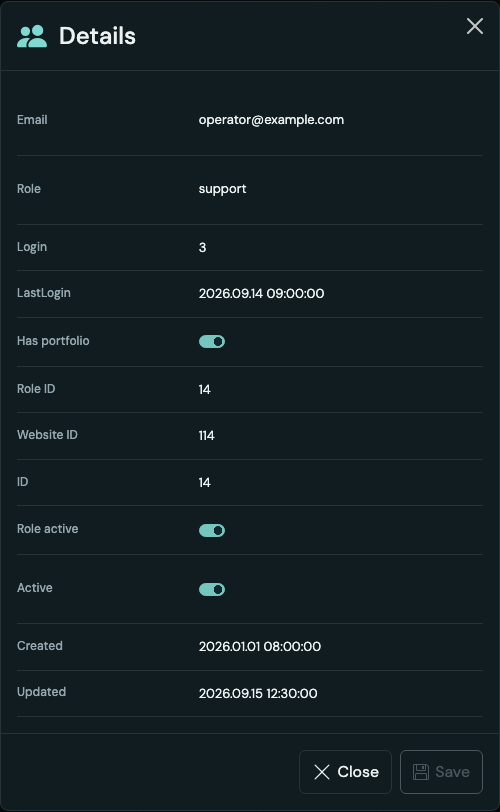
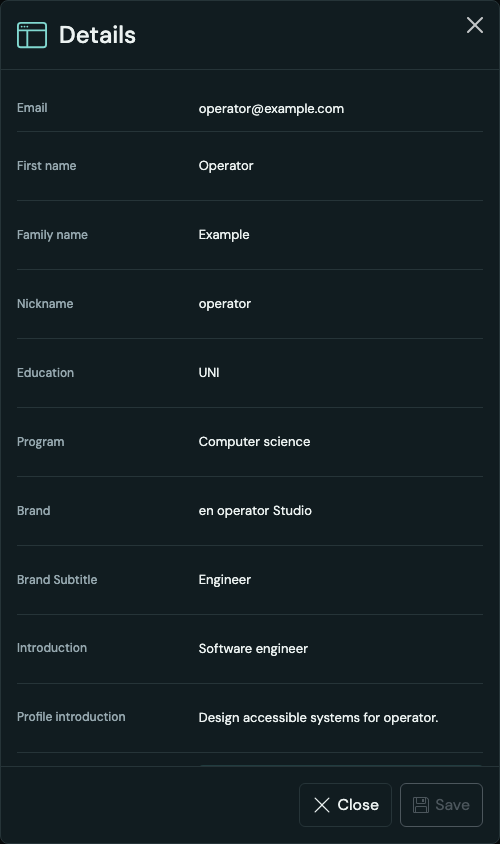
#fix Confirm only saving and keep login emails read-only

diff --git a/frontend/src/pages/management/components/ManagementTable.tsx b/frontend/src/pages/management/components/ManagementTable.tsx
@@ -52,7 +52,6 @@ export function ManagementTable({
   const [editing, setEditing] = useState<{
     scope: string;
     row: ManagementRow;
-    confirmed: boolean;
   } | null>(null);
   if (editing && editing.scope !== scope) setEditing(null);
   const [preview, setPreview] = useState<{ scope: string; siteId: number; user: string } | null>(
@@ -63,7 +62,7 @@ export function ManagementTable({
   const [deletion, setDeletion] = useState<{ scope: string; rows: ManagementRow[] } | null>(null);
   if (deletion && deletion.scope !== scope) setDeletion(null);
   const query = useManagementList(resource, state, locale, enabled, accountId);
-  const nameField = resource === 'roles' ? 'role' : resource === 'users' ? 'email' : 'user';
+  const nameField = resource === 'roles' ? 'role' : resource === 'users' ? 'email' : 'owner_email';
   const actionsUnavailable = !enabled || query.isFetching || query.isError;
   const selectedRows = (query.data?.items ?? []).filter((row) => selection.keys.includes(row.id));
   const openDelete = (rows: ManagementRow[]) => {
@@ -77,7 +76,7 @@ export function ManagementTable({
     if (!actionsUnavailable) {
       setDeletion(null);
       setPreview(null);
-      setEditing({ scope, row, confirmed: false });
+      setEditing({ scope, row });
     }
   };
   const { columns, detailColumns } = useMemo(() => {
@@ -110,7 +109,10 @@ export function ManagementTable({
         sortable: managementSortFields[resource].includes(field),
         initiallyHidden: !visible[resource].includes(field),
         hideable: field !== 'id',
-        truncate: resource === 'users' && field === 'email' ? false : undefined,
+        truncate:
+          field === 'owner_email' || (resource === 'users' && field === 'email')
+            ? false
+            : undefined,
         filter: managementFilterSpecs[resource][field],
         editor: (row) => managementEditor(resource, field, row),
         filterStyle:
@@ -293,24 +295,7 @@ export function ManagementTable({
           onClose={() => setPreview(null)}
         />
       )}
-      {editing?.scope === scope && !editing.confirmed && (
-        <WarningModal
-          layout="prompt"
-          title={t('management.editConfirmation')}
-          message={t('management.editTarget', { name: rowValue(editing.row, nameField) })}
-          closeLabel={t('management.close')}
-          onClose={() => setEditing(null)}
-          confirm={{
-            label: t('management.confirmEdit'),
-            cancelLabel: t('management.cancel'),
-            onConfirm: () =>
-              setEditing((previous) =>
-                previous?.scope === scope ? { ...previous, confirmed: true } : null,
-              ),
-          }}
-        />
-      )}
-      {editing?.scope === scope && editing.confirmed && (
+      {editing?.scope === scope && (
         <ManagementDetails
           key={editing.row.id}
           row={editing.row}

diff --git a/frontend/src/pages/management/model/management-view.ts b/frontend/src/pages/management/model/management-view.ts
@@ -45,7 +45,7 @@ export const fields: Record<ManagementResource, string[]> = {
     'updatetime',
   ],
   sites: [
-    'user',
+    'owner_email',
     'first_name',
     'family_name',
     'nick_name',
@@ -94,7 +94,15 @@ export const visible: Record<ManagementResource, string[]> = {
     'updatetime',
   ],
   users: ['id', 'email', 'role', 'login_count', 'last_login', 'updatetime', 'is_active'],
-  sites: ['id', 'user', 'has_site', 'is_published', 'is_default', 'owner_is_active', 'updatetime'],
+  sites: [
+    'id',
+    'owner_email',
+    'has_site',
+    'is_published',
+    'is_default',
+    'owner_is_active',
+    'updatetime',
+  ],
 } satisfies ManagementFields;
 
 /** Requested headings are independent of DTO field names and management language. */
@@ -126,7 +134,7 @@ export const columnLabels: Record<ManagementResource, Record<string, string>> = 
   },
   sites: {
     id: 'ID',
-    user: 'Account',
+    owner_email: 'Email',
     has_site: 'Profile',
     is_published: 'Publish',
     is_default: 'Default',
@@ -153,7 +161,7 @@ const platformDetailLabels: Record<string, string> = {
   copyright_year: 'Copyright',
   intro_content: 'Introduction',
   footer_content: 'Footer',
-  email: 'Email',
+  email: 'Contact email',
   linkedin: 'LinkedIn',
   github: 'GitHub',
   medium: 'Medium',

diff --git a/frontend/src/pages/management/model/management-edit.ts b/frontend/src/pages/management/model/management-edit.ts
@@ -8,7 +8,6 @@ import {
   type ManagementRow,
 } from '@/features/management';
 import type { InlineFieldEditor } from '@/shared/ui/InlineField';
-import { publicUserSchema } from '@/shared/schemas/portfolio';
 
 const schemas = {
   roles: managementRoleSchema,
@@ -55,16 +54,18 @@ export function managementEditor(
     field === 'id' ||
     field.endsWith('_id') ||
     spec.type === 'date' ||
-    derived.has(field)
+    derived.has(field) ||
+    (resource === 'users' && field === 'email') ||
+    (resource === 'sites' && ['owner_email', 'user'].includes(field))
   )
     return;
   const shape: Record<string, z.ZodType> = schemas[resource].shape;
-  const response = resource === 'sites' && field === 'user' ? publicUserSchema : shape[field];
+  const response = shape[field];
   if (!response) return;
   if (
     resource === 'sites' &&
     'has_translation' in row &&
-    !['user', 'owner_is_active'].includes(field) &&
+    field !== 'owner_is_active' &&
     (!row.has_site || (!siteFields.has(field) && !row.has_translation))
   )
     return;

diff --git a/frontend/src/features/management/schemas/management.ts b/frontend/src/features/management/schemas/management.ts
@@ -46,6 +46,7 @@ export const managementUserSchema = z.object({
 export const managementSiteSchema = z.object({
   id: recordIdSchema,
   user: z.string(),
+  owner_email: managementUserSchema.shape.email,
   owner_is_active: z.boolean(),
   site_id: recordIdSchema.nullable(),
   has_site: z.boolean(),

diff --git a/backend/APPs/Management/schema/resp/resp_management.py b/backend/APPs/Management/schema/resp/resp_management.py
@@ -73,7 +73,8 @@ class RespManagementSite(BaseModel):
     """Keep the account ID as row identity even when no portfolio or translation exists."""
 
     id: int = Field(..., gt=0, description="Owner account ID; stable identity for this person-based row.")
-    user: str = Field(..., description="Owner's public account handle.")
+    user: str = Field(..., description="Public portfolio URL handle; independent of login email.")
+    owner_email: str = Field(..., max_length=254, description="Read-only login email, independent of contact email.")
     owner_is_active: bool = Field(..., description="Owner account state; independent of role login availability.")
     site_id: int | None = Field(..., description="Portfolio ID; null when this person has no portfolio.")
     has_site: bool = Field(..., description="Whether the owner has created a portfolio.")

diff --git a/backend/APPs/Management/module/module_management.py b/backend/APPs/Management/module/module_management.py
@@ -175,6 +175,7 @@ class ManagementSitesModule(ManagementListModule):
         columns = {
             "id": AuthUser.id,
             "user": AuthUser.user,
+            "owner_email": AuthUser.email.label("owner_email"),
             "owner_is_active": AuthUser.is_active.label("owner_is_active"),
             "site_id": PortfolioSite.id.label("site_id"),
             "has_site": PortfolioSite.id.is_not(None).label("has_site"),

diff --git a/backend/APPs/Management/constants/constant_management.py b/backend/APPs/Management/constants/constant_management.py
@@ -63,6 +63,7 @@ SITE_LOCALE_COLUMNS = (
 SITE_SORT_FIELDS = (
     "id",
     "user",
+    "owner_email",
     "owner_is_active",
     "site_id",
     "has_site",

diff --git a/backend/README.md b/backend/README.md
@@ -292,7 +292,8 @@ The User list reads the stored login email directly and neither returns nor deri
 | 欄位 / Field      | 來源 / Source                                                           | 用途 / Purpose                                                                                                                                                       |
 | ----------------- | ----------------------------------------------------------------------- | -------------------------------------------------------------------------------------------------------------------------------------------------------------------- |
 | `id`              | `auth_user.id`                                                          | 每人一列的識別 / Person row identity                                                                                                                                 |
-| `user`            | `auth_user.user`                                                        | 擁有者帳號 / Owner handle                                                                                                                                            |
+| `user`            | `auth_user.user`                                                        | 公開作品集網址代號 / Public portfolio URL handle                                                                                                                     |
+| `owner_email`     | `auth_user.email`                                                       | 登入信箱，管理表格及詳情中的唯讀 Email；與公開聯絡信箱分開 / Read-only login email                                                                                       |
 | `owner_is_active` | `auth_user.is_active`                                                   | 擁有者狀態 / Owner state                                                                                                                                             |
 | `site_id`         | `portfolio_site.id`                                                     | 網站識別 / Nullable portfolio identity                                                                                                                               |
 | `has_site`        | `portfolio_site.id IS NOT NULL`                                         | 網站是否存在 / Portfolio presence                                                                                                                                    |
@@ -324,7 +325,7 @@ The User list reads the stored login email directly and neither returns nor deri
 
 以上語言欄位都使用請求的 locale。Platform 的 `createtime`／`updatetime` 使用主表 `auth_user` 的 UTC 建立／更新時間，前端顯示為 Created／Updated；網站表沒有建立／修改時間，因此這不是網站設定或翻譯內容的修改時間。User 不選取也不返回密碼；Platform 的 email 是公開聯絡信箱，User 的 email 是登入信箱。全部 User 欄位可排序，Platform 除固定請求值 locale 之外的欄位都可排序，名稱直接對應 response 欄位。
 
-Localized fields use only the requested locale. Platform `createtime` and `updatetime` are the primary account's UTC creation/update timestamps, displayed as Created/Updated even when no portfolio exists. Portfolio and translation tables do not store these timestamps, so they do not describe website-content changes. User queries never select password data. Platform email is public contact information, while User email is the login address. Every User response field is sortable; every Platform response field except the constant requested locale is sortable.
+Localized fields use only the requested locale. Platform `createtime` and `updatetime` are the primary account's UTC creation/update timestamps, displayed as Created/Updated even when no portfolio exists. Portfolio and translation tables do not store these timestamps, so they do not describe website-content changes. User queries never select password data. Platform owner_email reads auth_user.email directly and identifies the account; Platform email remains public contact information. Both login email displays are read-only in the management editor. Every User response field is sortable; every Platform response field except the constant requested locale is sortable.
 
 三支管理列表都不使用快取 decorator、不另外設定 Cache-Control，權限 decorator 依原規劃後補；沒有新增表或 migration。無效查詢回 400 INVALID_PAGE／INVALID_SIZE／INVALID_SORT／INVALID_FILTERS／INVALID_QUERY，無效語言回 INVALID_LOCALE。資料庫錯誤統一回 503 MANAGEMENT_DATABASE_UNAVAILABLE。
 

diff --git a/frontend/src/shared/ui/README.md b/frontend/src/shared/ui/README.md
@@ -809,20 +809,19 @@ trash 用 Bootstrap CSS mask，不傳不存在的 IconName：
 
 ![逐格編輯後 Save 變綠、Close 變紅](data-table-docs/edit-save.png)
 
-| Actions 編輯確認                                                       | Save 儲存確認                                                          |
-| ---------------------------------------------------------------------- | ---------------------------------------------------------------------- |
-| ![頂部警告圖示、取消與開始編輯](data-table-docs/edit-confirmation.png) | ![取消保留草稿，確認才接受修改](data-table-docs/save-confirmation.png) |
+![Save 才顯示確認，取消保留草稿](data-table-docs/save-confirmation.png)
 
 現有 [ManagementDetails](../../pages/management/components/ManagementDetails.tsx) 接收 row、columns、icon、copy={title,close,field,save} 與 onClose；field 使用 InlineFieldCopy 注入逐格編輯文案，save={title,message,confirm,cancel} 提供儲存確認文案：
 
 - 欄名／值／checkbox／switch 全部靠左；footer 靠右，Close 有 icon。
 - 可用另一組完整 columns，無須把所有資料放進列表。
-- 三張管理表的詳情順序集中於 `model/management-view.ts` 的 `fields`：Platform 先基本資料／品牌內容，再聯絡社群、聊天、頁尾與發布設定；Role 先名稱／描述，再預設與權限；User 先 Email／Role。唯讀資訊接在可編輯欄位後，Active／Created／Updated 固定為最後三項；User 的 Role active 緊接在 Active 前。
-- Actions 的 Edit icon 先開啟「確定要編輯嗎？」確認；取消／×／Escape 回到表格，確認後才開啟詳情。Details 標題不顯示副標；icon 由既有 managementNavigation 提供 Platform 的 dashboard、Role 的 shieldLock、User 的 people。文字值點選後直接編輯，checkbox／switch 直接切換。
+- 三張管理表的詳情順序集中於 `model/management-view.ts` 的 `fields`：Platform／User 先顯示唯讀登入 Email；Platform 接著基本資料／品牌內容，再聯絡社群、聊天、頁尾與發布設定；User 接著 Role。Role 管理先名稱／描述，再預設與權限。其他唯讀資訊接在可編輯欄位後，Active／Created／Updated 固定為最後三項；User 的 Role active 緊接在 Active 前。
+- Actions 的 Edit icon 直接開啟詳情，不先顯示確認。Details 標題不顯示副標；icon 由既有 managementNavigation 提供 Platform 的 dashboard、Role 的 shieldLock、User 的 people。文字值點選後直接編輯，checkbox／switch 直接切換。
 - 它屬於 management page，不是 DataTable prop 或資料編輯引擎。
 - Save 初始灰色停用；值與草稿基準不同時亮綠、Close 變紅。還原所有值後恢復初始狀態。無效值不能 Save。
 - Save 開啟「確定儲存變更？」確認；取消／×／Escape 保留所有草稿，回到原捲動位置及 Save 焦點。確認才更新視窗內的草稿基準，不更動 query cache、不送 API；關閉重開使用原查詢資料。一次只掛載一個 Modal，切換確認時由 ManagementDetails 保留草稿。
 - ID、時間、登入次數、角色帳號數、角色啟用／作品集／翻譯存在狀態、語言 context 與組合的 Profile name 都是唯讀；不存在的網站／語言資料也保持唯讀，不能把 JOIN 的 null 當成可清空的實體欄位。
+- 帳號的登入 Email 永遠唯讀：User 使用 `email`，Platform 使用直接來自 `auth_user.email` 的 `owner_email`。Platform 不再將作品集網址代號顯示為 Account；公開聯絡信箱仍使用 `email`，詳情標示為 Contact email，可獨立編輯。
 - `ManagementDetailColumn<T>` 在 DataTableColumn 上加入 `editor(row)`；`model/management-edit.ts` 統一配置型別、既有 schema 驗證與唯讀欄位。共享 `InlineField` 不引用 management。
 
 ```tsx
